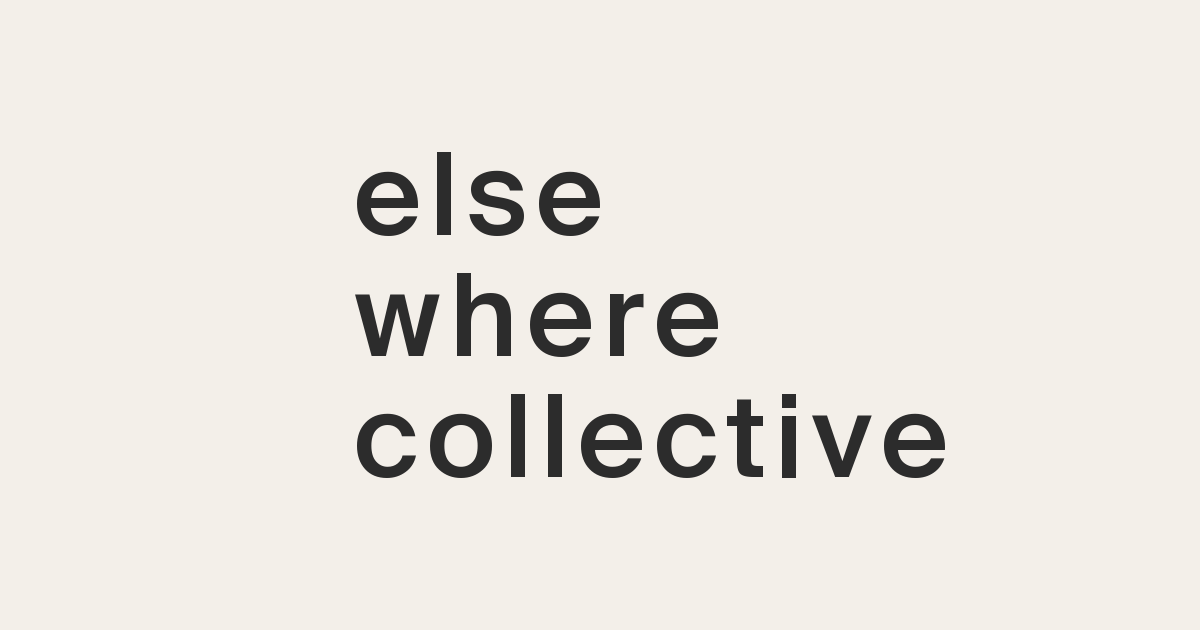
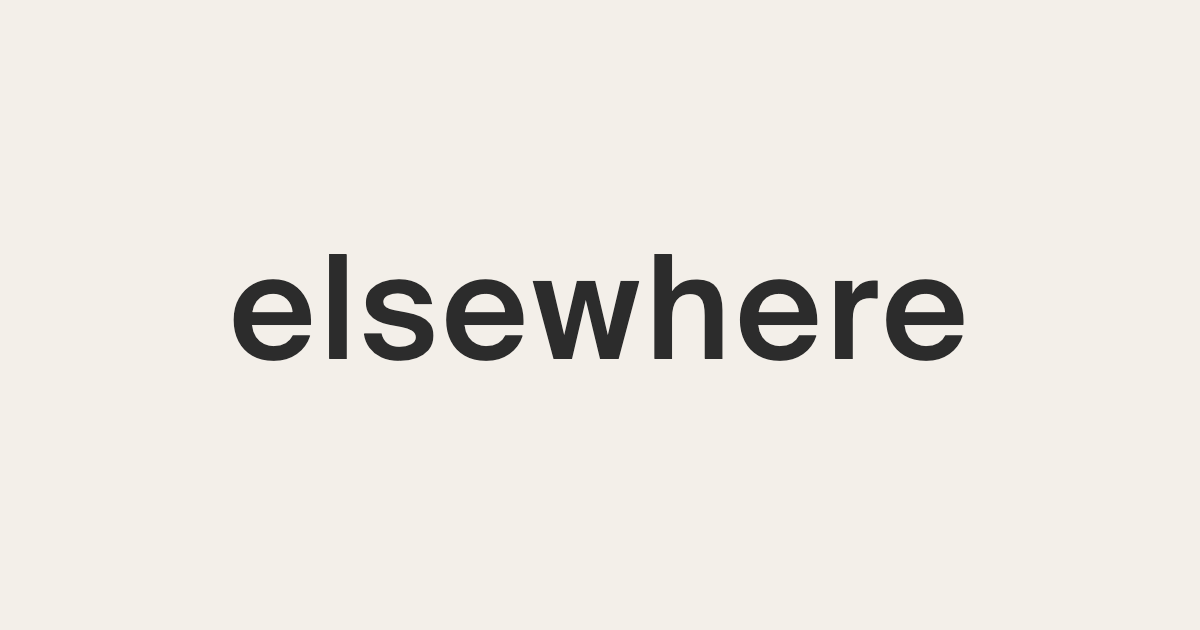
Add clean URLs for Artists section, OG tags, redesign og-image
- Add /artists, /mitsutaka, /jesula routes to the 404.html clean-URL
  router; update all internal nav/back-links and canonical tags to
  use them instead of raw filenames
- Fix artistspage.html tile hrefs to point at the new clean paths
- Add full Open Graph and Twitter Card tags to both artist pages
  (previously had none)
- Redesign og-image.png: logo now fills the 1200x630 frame properly
  instead of sitting small and off-center with excess dead space
- Redesign spotlight.html's Editorial view: two entries per row at
  asymmetric large/small sizes instead of one per row, so more work
  is visible at once while reading as a more considered spread

Changed region(s): [[0.185, 0.3921, 0.8017, 0.573], [0.2775, 0.6333, 0.8017, 0.754], [0.2775, 0.2413, 0.5242, 0.3921]]

diff --git a/spotlight.html b/spotlight.html
@@ -997,14 +997,18 @@ document.addEventListener('DOMContentLoaded', function() {
         font-size: 0.85rem;
     }
 
-    /* ─── Editorial rail: alternating scale, generous air, no card chrome ─── */
+    /* ─── Editorial rail: asymmetric two-up rhythm, tighter air, no card chrome ───
+       Entries flow two-per-row via CSS columns-style grid placement, alternating
+       which side runs large vs. small so the rail reads as a considered editorial
+       spread rather than a single-file scroll — while keeping more work visible
+       in the viewport at once. */
     .rail {
         max-width: 1600px;
         margin: 0 auto;
         padding: 3rem 3rem 6rem;
-        display: flex;
-        flex-direction: column;
-        gap: 8vw;
+        display: grid;
+        grid-template-columns: 7fr 5fr;
+        gap: 3rem 3rem;
     }
 
     .rail.hidden {
@@ -1012,22 +1016,13 @@ document.addEventListener('DOMContentLoaded', function() {
     }
 
     .entry {
-        display: grid;
-        grid-template-columns: 7fr 5fr;
-        gap: 4rem;
-        align-items: center;
+        display: flex;
+        flex-direction: column;
+        gap: 1.25rem;
     }
 
     .entry.is-reversed {
-        grid-template-columns: 5fr 7fr;
-    }
-
-    .entry.is-reversed .entry-figure {
-        order: 2;
-    }
-
-    .entry.is-reversed .entry-meta {
-        order: 1;
+        margin-top: 6rem;
     }
 
     .entry-figure {
@@ -1037,19 +1032,19 @@ document.addEventListener('DOMContentLoaded', function() {
     }
 
     /* Images keep their native proportions — no crop, no forced ratio —
-       but are always capped to fit inside the viewport, at any zoom level */
+       but are always capped so two columns' worth stay visible together */
     .entry-figure img {
         display: block;
         width: auto;
         height: auto;
-        max-width: min(640px, 100%);
-        max-height: 85vh;
+        max-width: 100%;
+        max-height: 62vh;
         filter: grayscale(0.15);
         transition: filter 0.6s ease;
     }
 
     .entry.is-reversed .entry-figure img {
-        margin-left: auto;
+        max-height: 46vh;
     }
 
     .entry-figure:hover img {
@@ -1378,25 +1373,19 @@ document.addEventListener('DOMContentLoaded', function() {
         }
 
         .rail {
+            grid-template-columns: 1fr;
             padding: 2rem 1.5rem 4rem;
             gap: 3.5rem;
         }
 
-        .entry,
         .entry.is-reversed {
-            grid-template-columns: 1fr;
-            gap: 0.4rem;
-        }
-
-        .entry.is-reversed .entry-figure,
-        .entry.is-reversed .entry-meta {
-            order: initial;
+            margin-top: 0;
         }
 
         .entry-figure img,
         .entry.is-reversed .entry-figure img {
             max-width: 100%;
-            margin-left: 0;
+            max-height: none;
         }
 
         .entry-title {
@@ -1556,7 +1545,7 @@ document.addEventListener('DOMContentLoaded', function() {
             <nav>
                 <ul class="nav-menu">
                     <li><a href="/about">About</a></li>
-                    <li><a href="/artistspage.html">Artists</a></li>
+                    <li><a href="/artists">Artists</a></li>
                     <li><a href="/spotlight" class="active">Gallery</a></li>
                 </ul>
             </nav>

diff --git a/Jésula Toussaint Visser.html b/Jésula Toussaint Visser.html
@@ -9,8 +9,22 @@
 <meta name="description" content="Jésula Toussaint Visser — fine art photography exploring black and white and the monotone landscape of colour. Available works through elsewhere collective.">
 <meta name="robots" content="noindex, nofollow">
 
-<!-- Not yet linked into nav or sitemap.xml — page is a local draft/template only, gitignored. -->
-<link rel="canonical" href="https://elsewherecollective.nl/artists/jesula-toussaint-visser">
+<!-- Password-gated Artists section page — noindex/nofollow intentional. -->
+<link rel="canonical" href="https://elsewherecollective.nl/jesula">
+
+<!-- Open Graph / Facebook -->
+<meta property="og:type" content="profile">
+<meta property="og:url" content="https://elsewherecollective.nl/jesula">
+<meta property="og:title" content="Jésula Toussaint Visser | elsewhere collective">
+<meta property="og:description" content="Jésula Toussaint Visser — fine art photography exploring black and white and the monotone landscape of colour. Available works through elsewhere collective.">
+<meta property="og:image" content="https://elsewherecollective.nl/images/jesula/Jesula%20Thought%20Bubble.jpg">
+
+<!-- Twitter -->
+<meta property="twitter:card" content="summary_large_image">
+<meta property="twitter:url" content="https://elsewherecollective.nl/jesula">
+<meta property="twitter:title" content="Jésula Toussaint Visser | elsewhere collective">
+<meta property="twitter:description" content="Jésula Toussaint Visser — fine art photography exploring black and white and the monotone landscape of colour. Available works through elsewhere collective.">
+<meta property="twitter:image" content="https://elsewherecollective.nl/images/jesula/Jesula%20Thought%20Bubble.jpg">
 
 <!-- Favicon -->
 <link rel="icon" type="image/png" href="favicon.png">
@@ -852,7 +866,7 @@
         <nav>
             <ul class="nav-menu">
                 <li><a href="/about">About</a></li>
-                <li><a href="/artistspage.html">Artists</a></li>
+                <li><a href="/artists">Artists</a></li>
                 <li><a href="/spotlight">Gallery</a></li>
             </ul>
         </nav>
@@ -861,7 +875,7 @@
 
 <div class="page">
 
-    <a href="/artistspage.html" class="back-link">&larr; All artists</a>
+    <a href="/artists" class="back-link">&larr; All artists</a>
 
     <section class="intro">
         <div class="intro-copy">

diff --git a/Mitsutaka Tsuryu.html b/Mitsutaka Tsuryu.html
@@ -9,8 +9,22 @@
 <meta name="description" content="Mitsutaka Tsuryu — fine art and street photography exploring presence and absence in urban spaces. Available works through elsewhere collective.">
 <meta name="robots" content="noindex, nofollow">
 
-<!-- Not yet linked into nav or sitemap.xml — page is a local draft/template only, gitignored. -->
-<link rel="canonical" href="https://elsewherecollective.nl/artists/mitsutaka-tsuryu">
+<!-- Password-gated Artists section page — noindex/nofollow intentional. -->
+<link rel="canonical" href="https://elsewherecollective.nl/mitsutaka">
+
+<!-- Open Graph / Facebook -->
+<meta property="og:type" content="profile">
+<meta property="og:url" content="https://elsewherecollective.nl/mitsutaka">
+<meta property="og:title" content="Mitsutaka Tsuryu | elsewhere collective">
+<meta property="og:description" content="Mitsutaka Tsuryu — fine art and street photography exploring presence and absence in urban spaces. Available works through elsewhere collective.">
+<meta property="og:image" content="https://elsewherecollective.nl/images/mitsutaka-tsuryu/Mitsutaka%20In%20Transit.jpg">
+
+<!-- Twitter -->
+<meta property="twitter:card" content="summary_large_image">
+<meta property="twitter:url" content="https://elsewherecollective.nl/mitsutaka">
+<meta property="twitter:title" content="Mitsutaka Tsuryu | elsewhere collective">
+<meta property="twitter:description" content="Mitsutaka Tsuryu — fine art and street photography exploring presence and absence in urban spaces. Available works through elsewhere collective.">
+<meta property="twitter:image" content="https://elsewherecollective.nl/images/mitsutaka-tsuryu/Mitsutaka%20In%20Transit.jpg">
 
 <!-- Favicon -->
 <link rel="icon" type="image/png" href="favicon.png">
@@ -851,7 +865,7 @@
         <nav>
             <ul class="nav-menu">
                 <li><a href="/about">About</a></li>
-                <li><a href="/artistspage.html">Artists</a></li>
+                <li><a href="/artists">Artists</a></li>
                 <li><a href="/spotlight">Gallery</a></li>
             </ul>
         </nav>
@@ -860,7 +874,7 @@
 
 <div class="page">
 
-    <a href="/artistspage.html" class="back-link">&larr; All artists</a>
+    <a href="/artists" class="back-link">&larr; All artists</a>
 
     <section class="intro">
         <div class="intro-copy">

diff --git a/artistspage.html b/artistspage.html
@@ -492,7 +492,7 @@
         <nav>
             <ul class="nav-menu">
                 <li><a href="/about">About</a></li>
-                <li><a href="/artistspage.html" class="active">Artists</a></li>
+                <li><a href="/artists" class="active">Artists</a></li>
                 <li><a href="/spotlight">Gallery</a></li>
             </ul>
         </nav>
@@ -516,8 +516,8 @@
     // stand-in — swap in real work-shot / portrait pairs once available.
     const DRAFT_ARTISTS = [
         { name: "Andrea Rosselli", role: "", slug: "andrea-rosselli", href: null, work: "andrearosselli.jpg", portrait: "andrearosselli.jpg" },
-        { name: "Mitsutaka Tsuryu", role: "", slug: "mitsutaka-tsuryu", href: "Mitsutaka Tsuryu.html", work: "images/mitsutaka-tsuryu/Mitsutaka Unoccupied Card.jpg", portrait: "images/mitsutaka-tsuryu/Mitsutaka Bio.jpg" },
-        { name: "Jésula Toussaint Visser", role: "", slug: "jesula-toussaint-visser", href: "Jésula Toussaint Visser.html", work: "images/jesula/Jesula Lucent Shadows.jpg", portrait: "images/jesula/Jesula Imperceptible.jpg" },
+        { name: "Mitsutaka Tsuryu", role: "", slug: "mitsutaka-tsuryu", href: "/mitsutaka", work: "images/mitsutaka-tsuryu/Mitsutaka Unoccupied Card.jpg", portrait: "images/mitsutaka-tsuryu/Mitsutaka Bio.jpg" },
+        { name: "Jésula Toussaint Visser", role: "", slug: "jesula-toussaint-visser", href: "/jesula", work: "images/jesula/Jesula Lucent Shadows.jpg", portrait: "images/jesula/Jesula Imperceptible.jpg" },
     ];
 
     function escapeHtml(str) {

diff --git a/404.html b/404.html
@@ -15,7 +15,10 @@
                 "/home": "/index.html",
                 "/about": "/about.html",
                 "/spotlight": "/spotlight.html",
-                "/cookie-policy": "/cookie-policy.html"
+                "/cookie-policy": "/cookie-policy.html",
+                "/artists": "/artistspage.html",
+                "/mitsutaka": "/Mitsutaka Tsuryu.html",
+                "/jesula": "/Jésula Toussaint Visser.html"
             };
 
             if (cleanPath === "/spotlights") {
@@ -34,7 +37,7 @@
                 return;
             }
 
-            fetch(targetFile)
+            fetch(encodeURI(targetFile))
                 .then(function(response) {
                     if (!response.ok) {
                         throw new Error("Route target not found");

diff --git a/index.html b/index.html
@@ -1220,7 +1220,7 @@
             <nav>
                 <ul class="nav-menu">
                     <li><a href="/about">About</a></li>
-                    <li><a href="/artistspage.html">Artists</a></li>
+                    <li><a href="/artists">Artists</a></li>
                     <li><a href="/spotlight">Gallery</a></li>
                 </ul>
             </nav>

diff --git a/about.html b/about.html
@@ -742,7 +742,7 @@
             <nav>
                 <ul class="nav-menu">
                     <li><a href="/about">About</a></li>
-                    <li><a href="/artistspage.html">Artists</a></li>
+                    <li><a href="/artists">Artists</a></li>
                     <li><a href="/spotlight">Gallery</a></li>
                 </ul>
             </nav>

diff --git a/cookie-policy.html b/cookie-policy.html
@@ -641,7 +641,7 @@
             <nav>
                 <ul class="nav-menu">
                     <li><a href="/about">About</a></li>
-                    <li><a href="/artistspage.html">Artists</a></li>
+                    <li><a href="/artists">Artists</a></li>
                     <li><a href="/spotlight">Gallery</a></li>
                 </ul>
             </nav>
